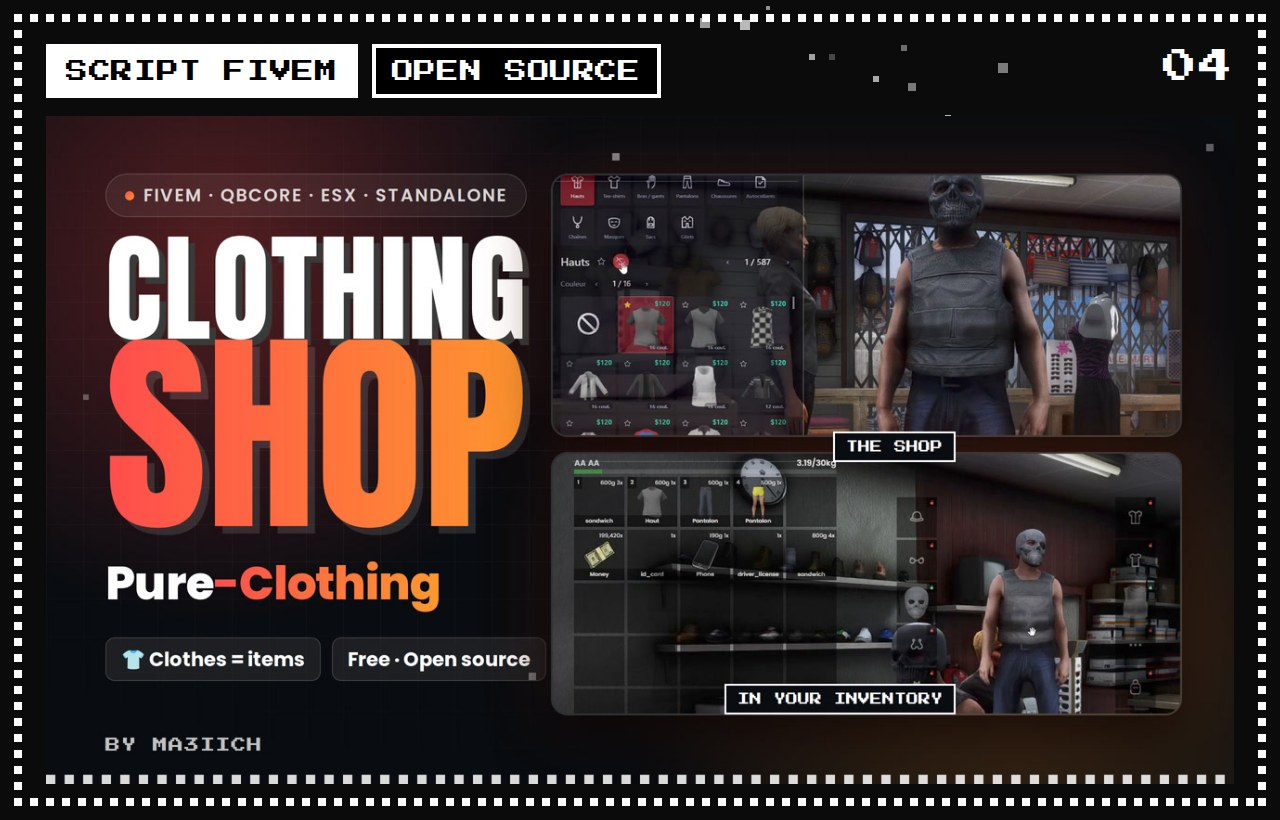
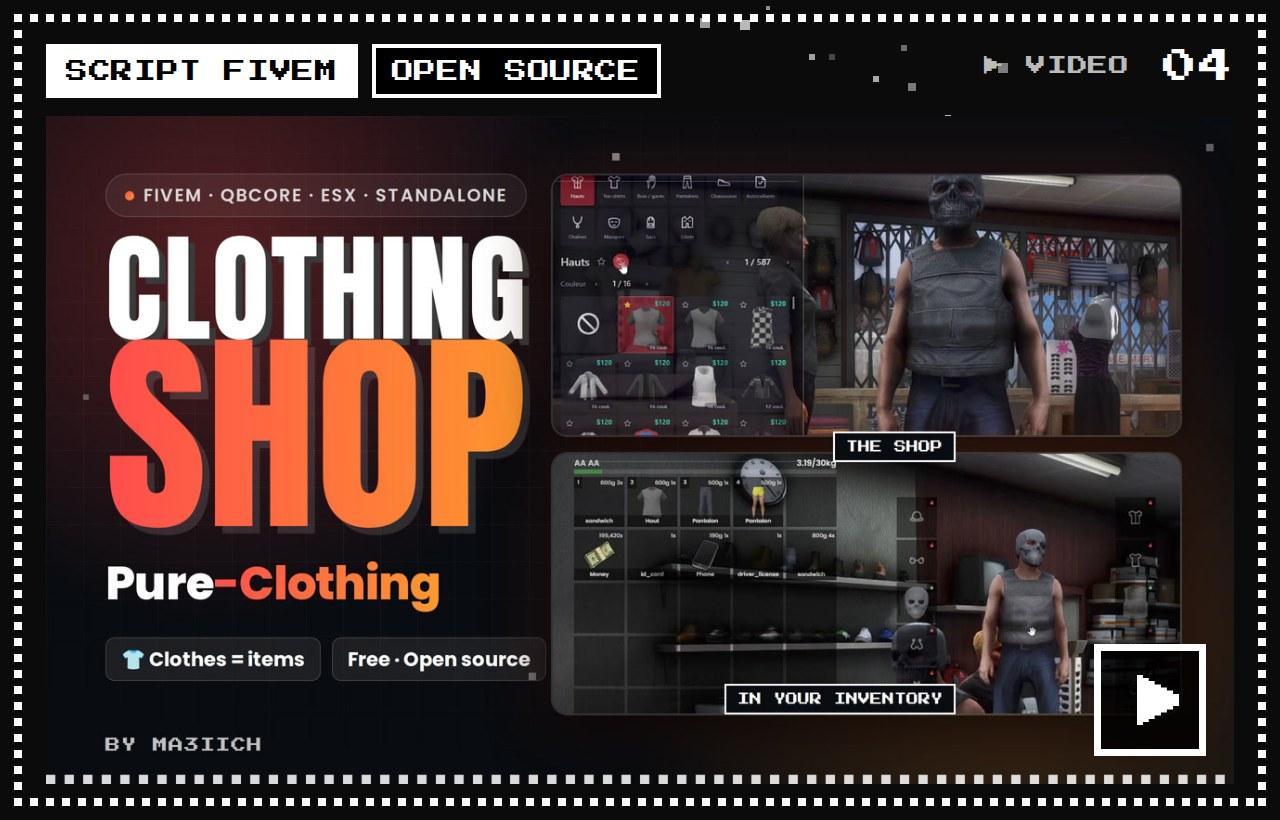
📝 Pure Clothing : bouton Tuto vidéo et carte avec lecture

Changed region(s): [[0.8438, 0.7622, 0.9688, 0.9451], [0.75, 0.061, 0.9062, 0.0915]]

diff --git a/index.html b/index.html
@@ -200,7 +200,7 @@
         </div>
       </article>
       <article class="carte">
-        <a class="media" href="https://github.com/ma3iich/pure_clothing" aria-label="Voir Pure Clothing sur GitHub">
+        <a class="media" href="https://www.youtube.com/watch?v=qSAtUIHN1zw" aria-label="Voir le tuto vidéo de Pure Clothing">
           <img src="assets/pure-clothing.jpg" alt="Pure Clothing, les magasins de vêtements FiveM qui donnent des objets" width="1280" height="820" loading="lazy">
         </a>
         <div class="corps">
@@ -209,6 +209,7 @@
           <p class="desc">Des magasins de vêtements pour FiveM : chaque vêtement acheté arrive dans l'inventaire en objet, avec sa photo. Standalone, QBCore ou ESX, marche avec Pure Inventory.</p>
           <div class="actions">
             <a class="btn btn--plein" href="https://github.com/ma3iich/pure_clothing"><svg><use href="#i-github"/></svg>Télécharger</a>
+            <a class="btn" href="https://www.youtube.com/watch?v=qSAtUIHN1zw"><svg class="c-youtube"><use href="#i-youtube"/></svg>Tuto vidéo</a>
           </div>
         </div>
       </article>
